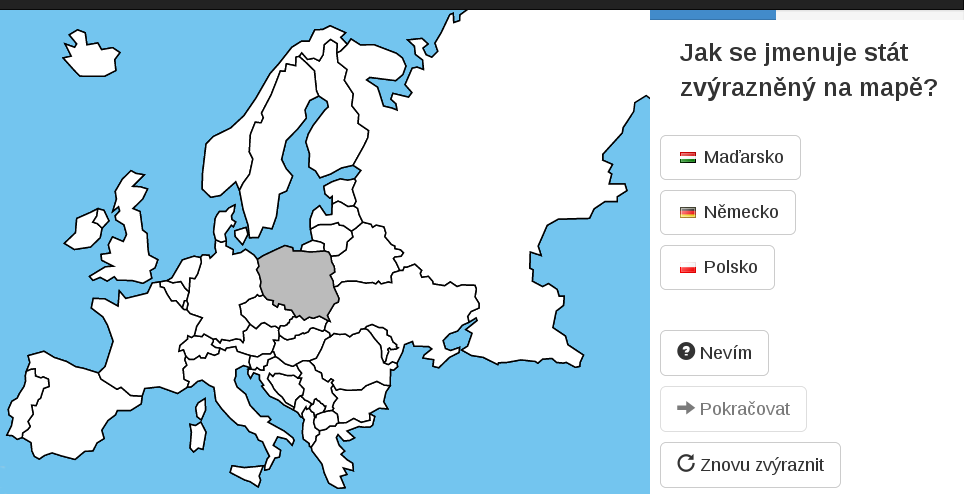
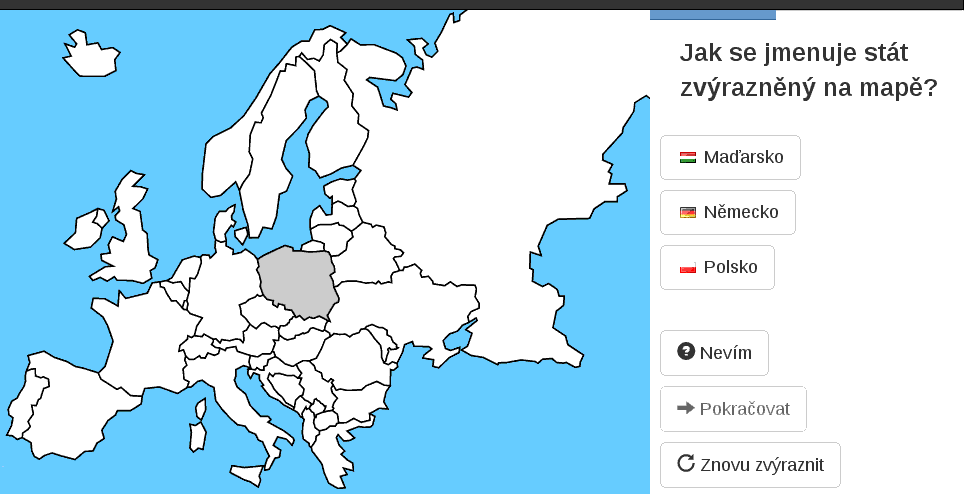
Optimize homepage images

Changed region(s): [[0.6535, 0.0, 0.8091, 0.0607]]

diff --git a/main/geography/static/sass/_map-container.sass b/main/geography/static/sass/_map-container.sass
@@ -1,12 +1,9 @@
 $map-height:500px
 
 .map-container
-  background-color: #73c5ef
-  background: -  #34DDDD
+  background-color: #66ccff
   color: white
-
   position: relative
-
   h1
     text-shadow: 1px 1px 0px rgba(0, 0, 0, 0.8), 0 0 0px rgba(0, 0, 0, 0.075)
     position: absolute

diff --git a/main/geography/static/sass/_welcome-page.sass b/main/geography/static/sass/_welcome-page.sass
@@ -1,5 +1,5 @@
 .welcome-page.jumbotron
-  background-color: #73c5ef
+  background-color: #66ccff
   background-image: url(/static/img/world-outline.png)
   background-size: contain
   background-repeat: no-repeat
